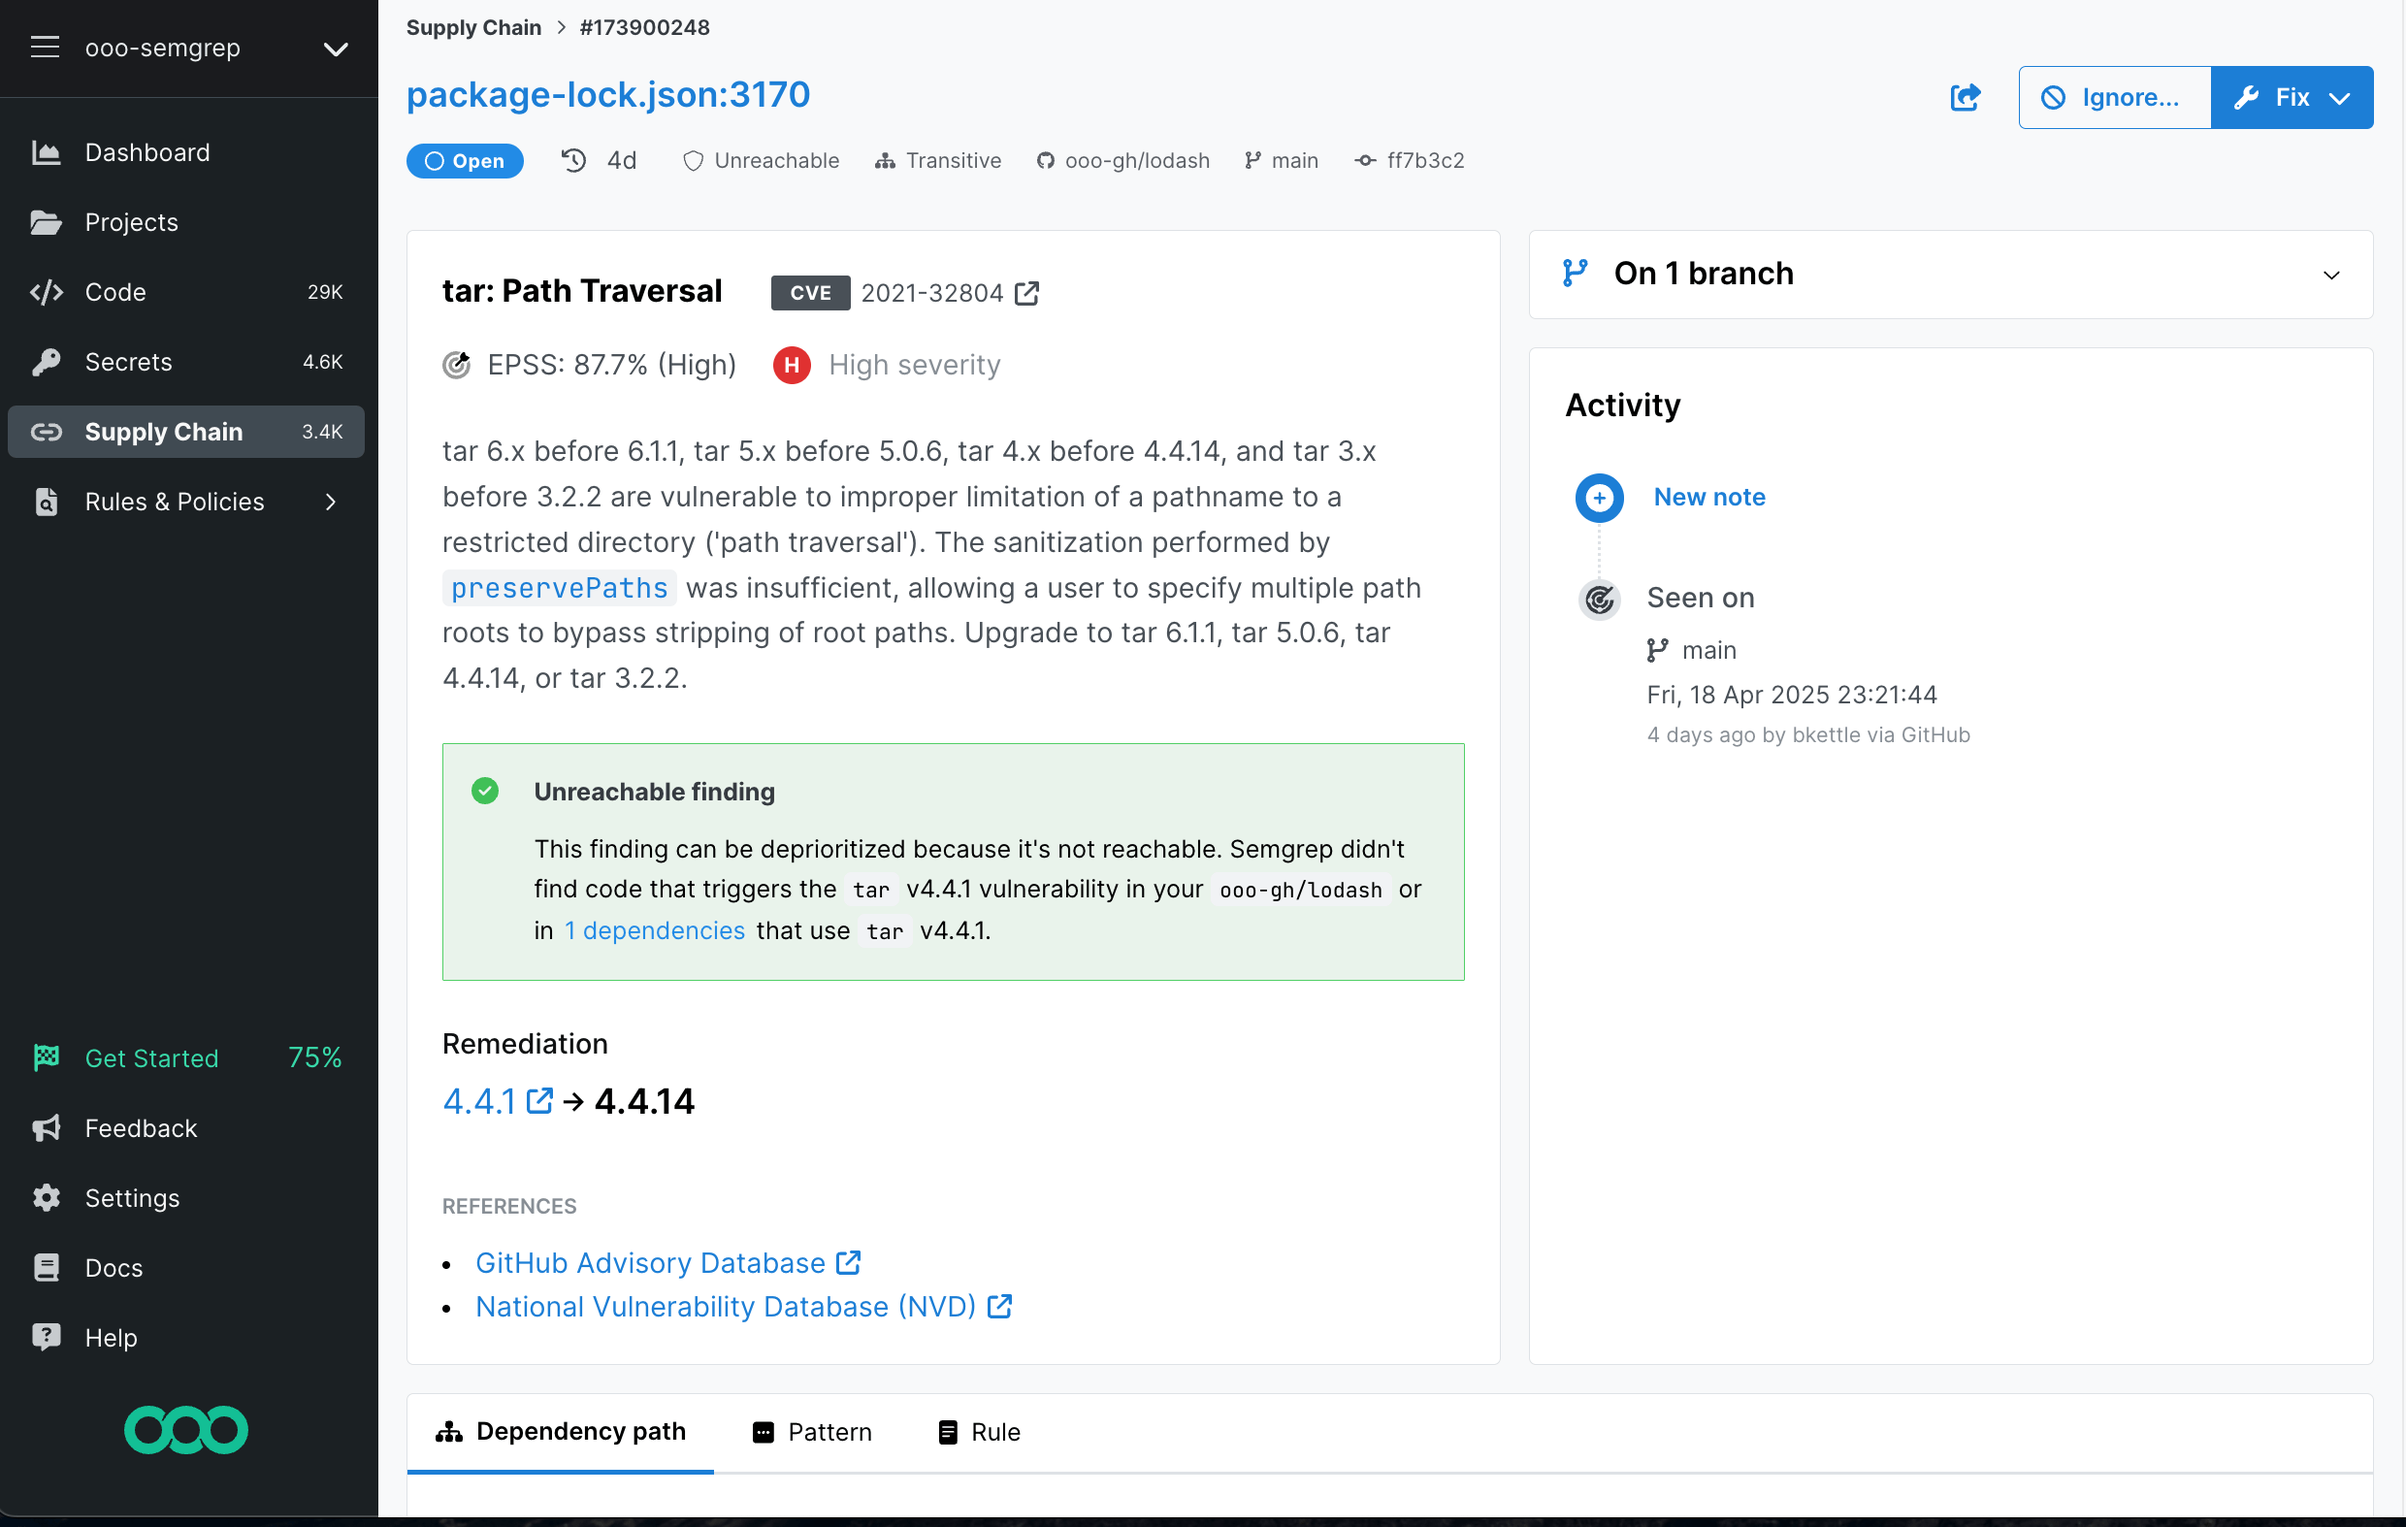
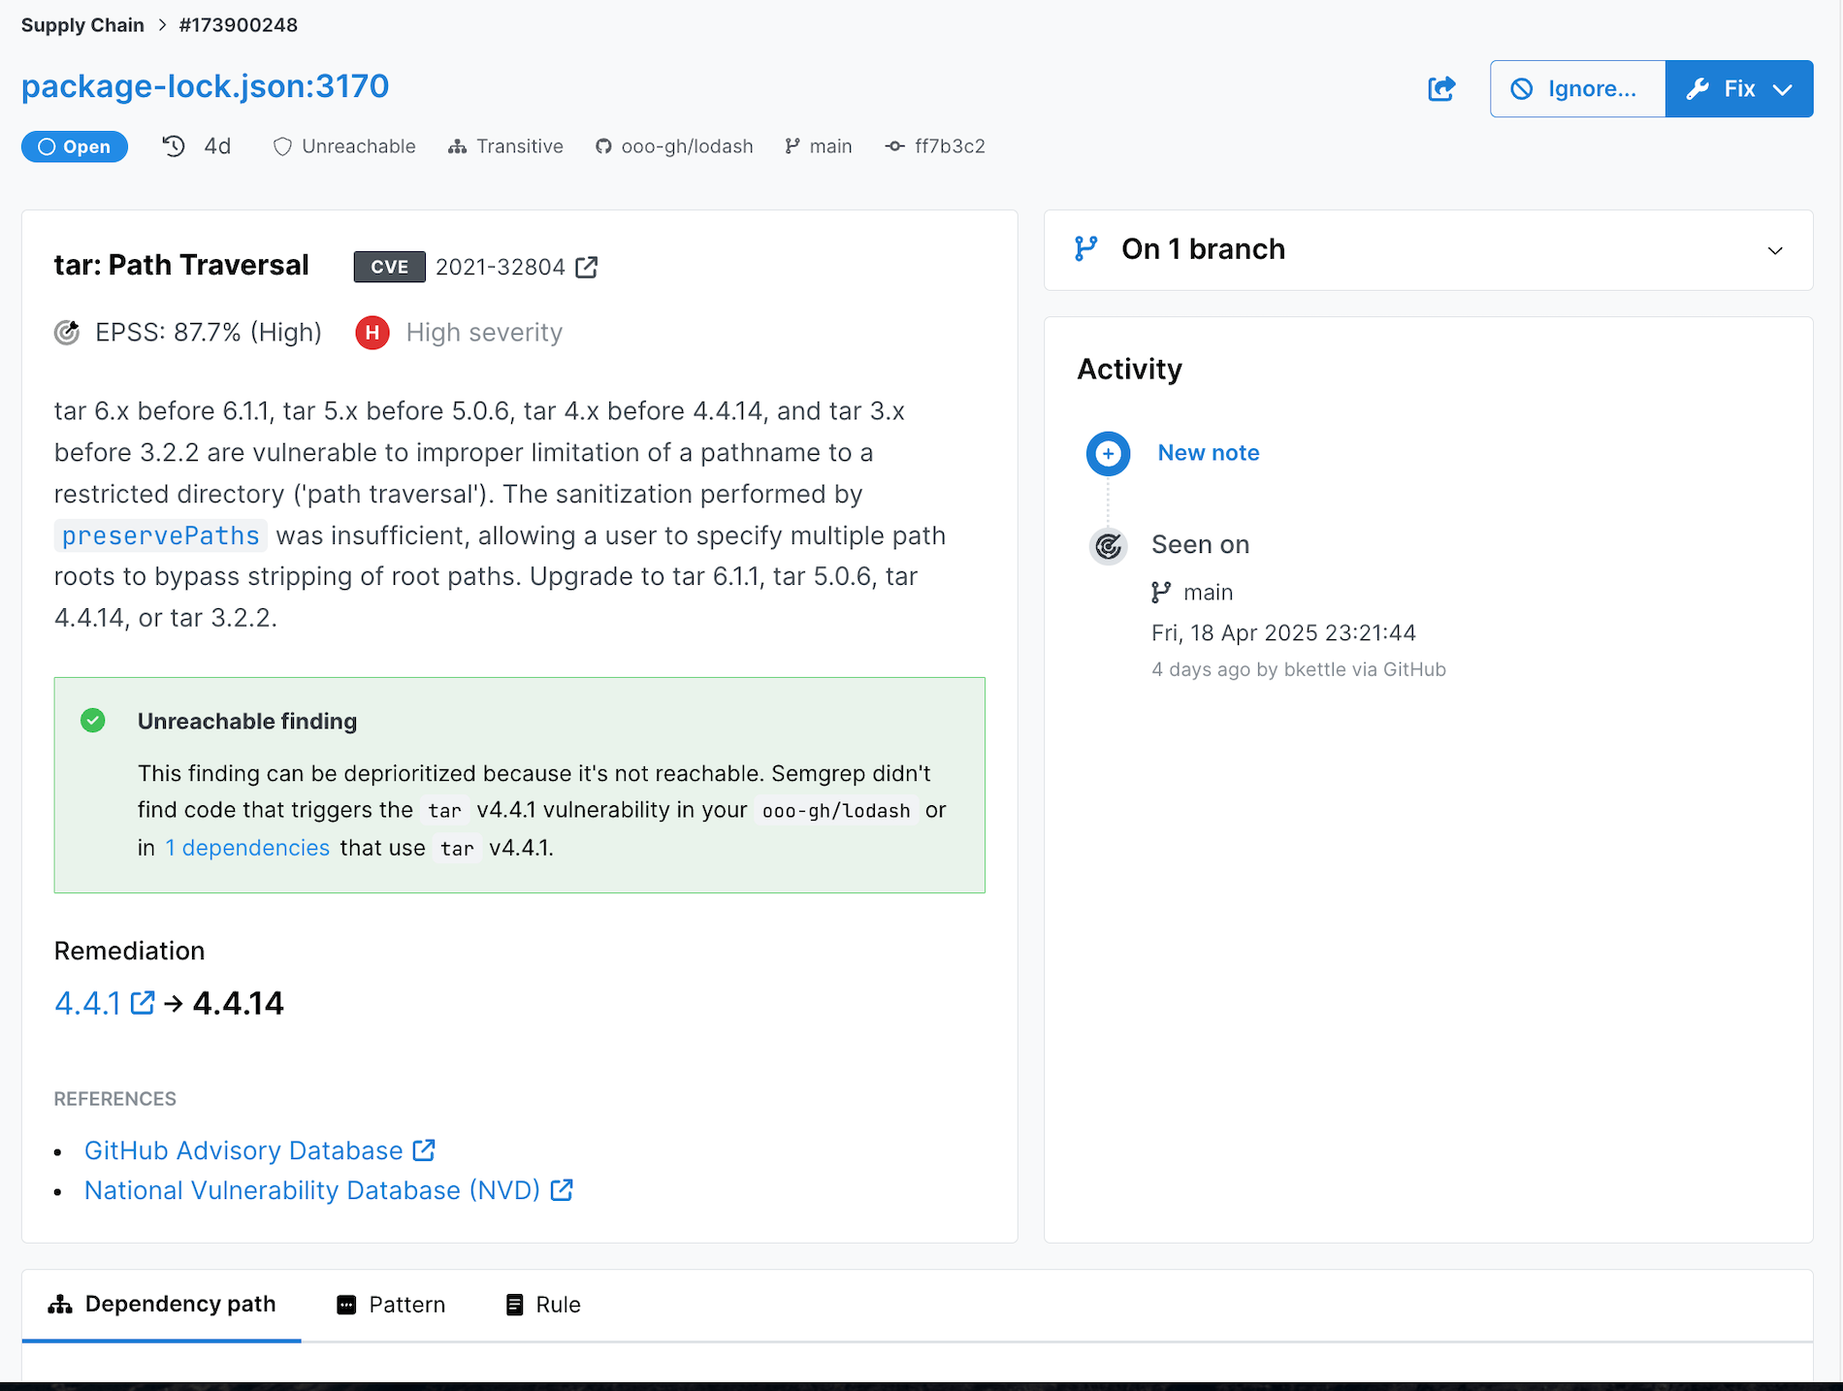
add content and screenshots

diff --git a/docs/semgrep-supply-chain/transitive-reachability.md b/docs/semgrep-supply-chain/transitive-reachability.md
@@ -7,13 +7,14 @@ tags:
  - Semgrep Supply Chain
 ---
 
-# Transitive reachability
-
-:::info
-This feature is in private beta. To join, reach out to [support](/support).
-:::
+# Transitive reachability (beta)
 
 Semgrep Supply Chains' transitive reachability analysis helps you identify vulnerabilities introduced by third-party packages and their dependencies. 
+
+
+:::info
+This feature is in private beta. To join, contact [support](/support).
+:::
 
 <!-- NEW STATUSES 
 - **Undetermined**: no meaningful analysis of the vulnerability's usage
@@ -74,8 +75,13 @@ To view your findings in Semgrep AppSec Platform:
 
 Opening up an individual finding displays additional details for your review:
 
-![The finding details page shows that the Supply Chain finding is unreachable.](/img/unreachable-finding-details.png)
-_**Figure**. The finding details page shows that the Supply Chain finding is unreachable._
+![The finding details page showing that the Supply Chain finding is unreachable.](/img/unreachable-finding-details.png#md-width)
+_**Figure**. The finding details page showing that the Supply Chain finding is unreachable._
+
+You can use **Dependency path** to see how Semgrep determined if a finding is transitive.
+
+![The finding details page showing a reachable transitive finding and its dependency path](/img/reachable-transitive-vuln-dep-path.png#md-width)
+_**Figure**. The finding details page showing a reachable transitive finding and its dependency path._
 
 ### CLI
 
@@ -102,7 +108,3 @@ For findings that may be reachable:
 - If the vulnerable package has an update that fixes the issue, and the dependency that your first-party code calls utilizes the updated package, you can update the dependency version used. Then, re-run Supply Chain to update your vulnerabilities list.
 - If there's no fix available, remove the dependency from your code base and re-run Supply Chain to update your vulnerabilities list.
 - If necessary, you can apply [any Semgrep triage state](/semgrep-supply-chain/triage-and-remediation#ignore-findings) to the finding, such as **Ignored**, though this isn't recommended.
-
-## Advisories
-
-[TODO]
